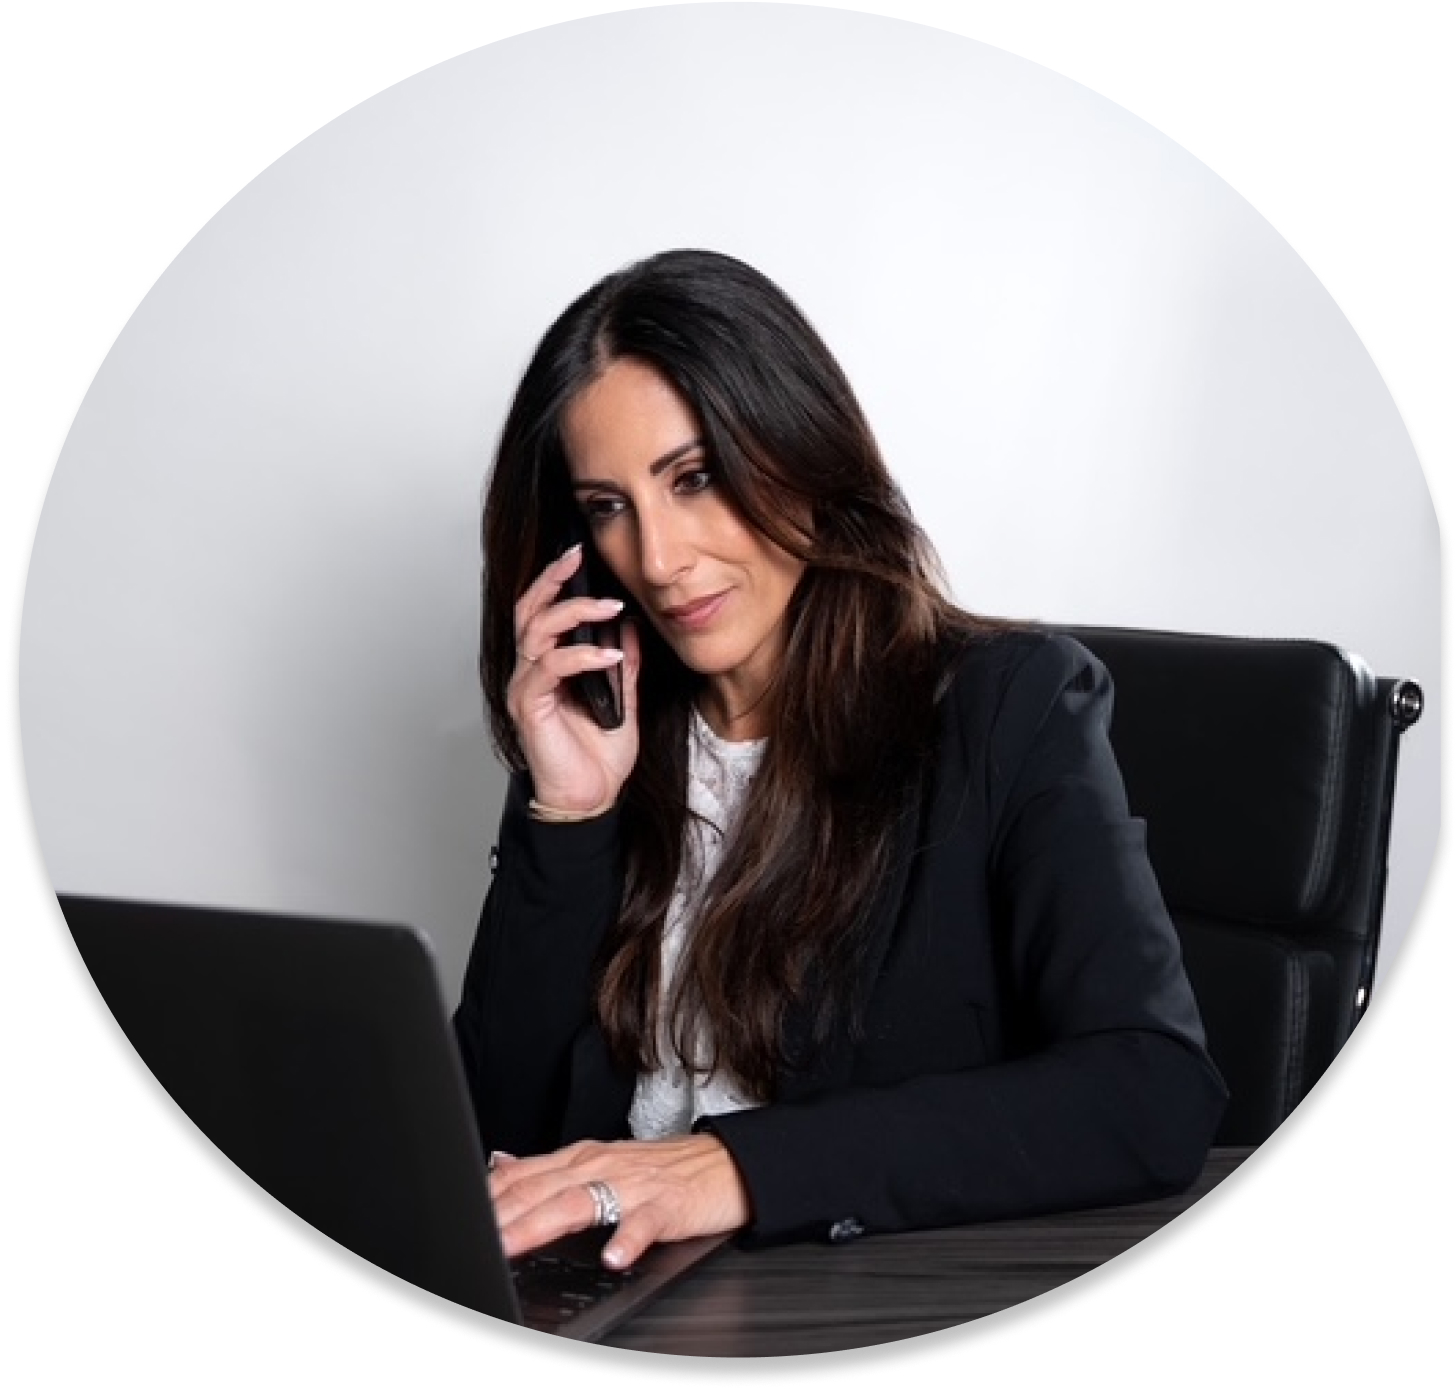
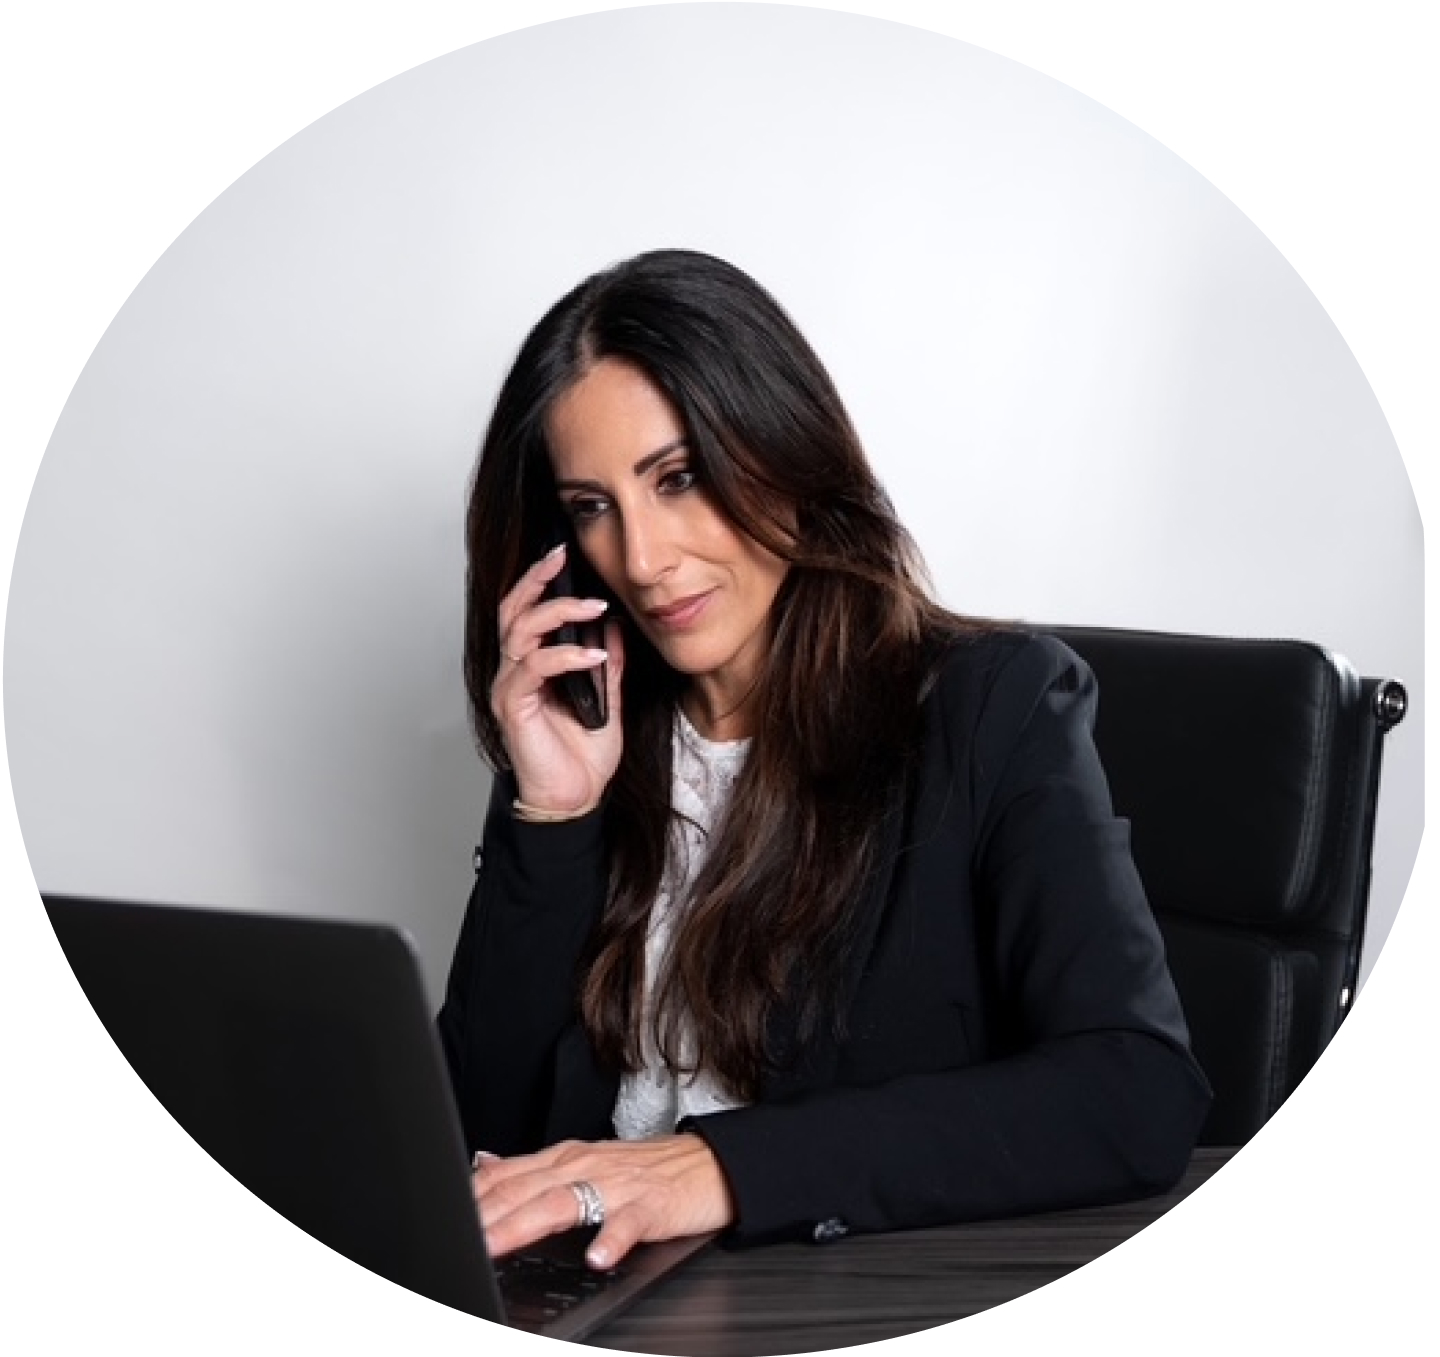
Slider testimonials

diff --git a/script.js b/script.js
@@ -121,30 +121,6 @@ document.addEventListener("DOMContentLoaded", () => {
 	window.addEventListener("resize", updateCardWidth);
 	updateCardWidth(); // Run on load
 
-	// === Start Slider from Middle Card on Desktop Only When Section Enters View ===
-	const testimonialsSection = document.querySelector(".testimonials-section");
-	if (window.innerWidth > 1024 && testimonialsSection && cards.length >= 3) {
-		const sectionObserver = new IntersectionObserver(
-			(entries, observer) => {
-				if (entries[0].isIntersecting) {
-					// First immediate center
-					currentIndex = 1;
-					updateSlider();
-
-					// Second center after layout settles (for iOS Safari)
-					setTimeout(() => {
-						currentIndex = 1;
-						updateSlider();
-					}, 300);
-
-					observer.unobserve(testimonialsSection);
-				}
-			},
-			{ threshold: 0.3 }
-		);
-		sectionObserver.observe(testimonialsSection);
-	}
-
 	// === Expand/Collapse for Testimonial "Read More" Links ===
 	document.querySelectorAll(".testimonial-card .read-more").forEach((link) => {
 		link.addEventListener("click", function (e) {
